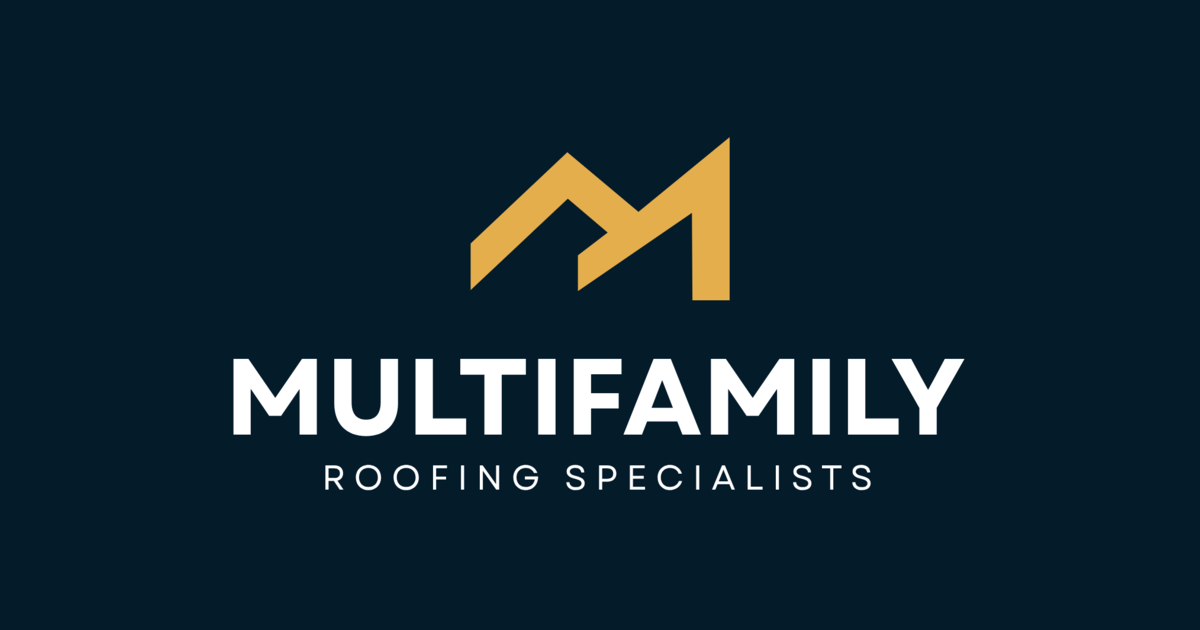
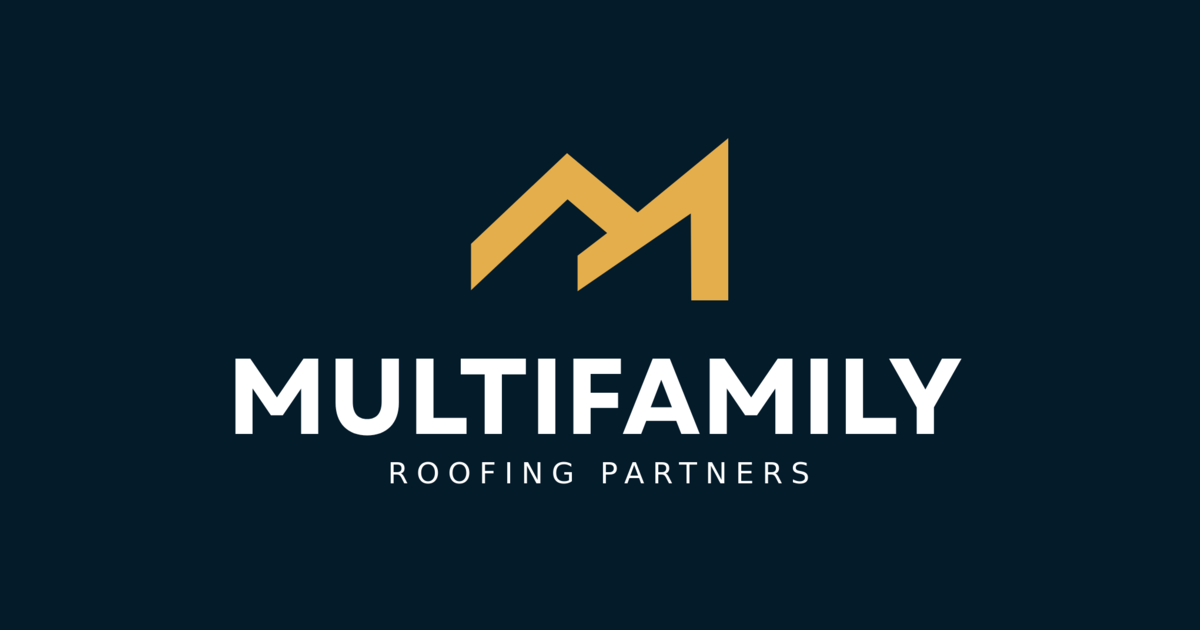
Update multifamily roofing project assets and components
Replit-Commit-Author: Agent

diff --git a/artifacts/multifamily-roofing-specialists/index.html b/artifacts/multifamily-roofing-specialists/index.html
@@ -3,25 +3,25 @@
   <head>
     <meta charset="UTF-8" />
     <meta name="viewport" content="width=device-width, initial-scale=1.0, maximum-scale=1" />
-    <title>Multifamily Roofing Specialists | Commercial Roofing Across the Southeast</title>
-    <meta name="description" content="Commercial roofing specialists for multifamily owners, property managers, HOAs, developers, and GCs across North Carolina, South Carolina, Tennessee, and Georgia." />
+    <title>Multifamily Roofing Partners | Commercial Roofing Across the Southeast</title>
+    <meta name="description" content="Commercial roofing partners for multifamily owners, property managers, HOAs, developers, and GCs across North Carolina, South Carolina, Tennessee, and Georgia." />
     <meta name="robots" content="index, follow" />
     <link rel="canonical" href="https://themultifamilyroofers.com/" />
-    <meta property="og:site_name" content="Multifamily Roofing Specialists" />
-    <meta property="og:title" content="Multifamily Roofing Specialists | Commercial Roofing Across the Southeast" />
-    <meta property="og:description" content="Commercial roofing specialists for multifamily owners, property managers, HOAs, developers, and GCs across North Carolina, South Carolina, Tennessee, and Georgia." />
+    <meta property="og:site_name" content="Multifamily Roofing Partners" />
+    <meta property="og:title" content="Multifamily Roofing Partners | Commercial Roofing Across the Southeast" />
+    <meta property="og:description" content="Commercial roofing partners for multifamily owners, property managers, HOAs, developers, and GCs across North Carolina, South Carolina, Tennessee, and Georgia." />
     <meta property="og:type" content="website" />
     <meta property="og:url" content="https://themultifamilyroofers.com/" />
     <meta property="og:image" content="https://themultifamilyroofers.com/social-preview.png" />
-    <meta property="og:image:alt" content="Gold-and-white Multifamily Roofing Specialists logo on a navy background" />
+    <meta property="og:image:alt" content="Gold-and-white Multifamily Roofing Partners logo on a navy background" />
     <meta property="og:image:type" content="image/png" />
     <meta property="og:image:width" content="1200" />
     <meta property="og:image:height" content="630" />
     <meta name="twitter:card" content="summary_large_image" />
-    <meta name="twitter:title" content="Multifamily Roofing Specialists | Commercial Roofing Across the Southeast" />
-    <meta name="twitter:description" content="Commercial roofing specialists for multifamily owners, property managers, HOAs, developers, and GCs across North Carolina, South Carolina, Tennessee, and Georgia." />
+    <meta name="twitter:title" content="Multifamily Roofing Partners | Commercial Roofing Across the Southeast" />
+    <meta name="twitter:description" content="Commercial roofing partners for multifamily owners, property managers, HOAs, developers, and GCs across North Carolina, South Carolina, Tennessee, and Georgia." />
     <meta name="twitter:image" content="https://themultifamilyroofers.com/social-preview.png" />
-    <meta name="twitter:image:alt" content="Gold-and-white Multifamily Roofing Specialists logo on a navy background" />
+    <meta name="twitter:image:alt" content="Gold-and-white Multifamily Roofing Partners logo on a navy background" />
     <link rel="icon" type="image/svg+xml" href="/favicon.svg?v=5" />
     <link rel="icon" type="image/png" sizes="32x32" href="/favicon-32.png?v=5" />
     <link rel="icon" type="image/png" sizes="192x192" href="/favicon-192.png?v=5" />

diff --git a/artifacts/multifamily-roofing-specialists/src/App.tsx b/artifacts/multifamily-roofing-specialists/src/App.tsx
@@ -4,7 +4,7 @@ import { QueryClient, QueryClientProvider } from '@tanstack/react-query';
 import { ErrorBoundary } from '@/components/error-boundary';
 import { Toaster } from '@/components/ui/toaster';
 import { TooltipProvider } from '@/components/ui/tooltip';
-import brandLogo from '@assets/Copy_of_Copy_of_roofing_specialists_(3)_1790358155126.png';
+import brandLogo from '@assets/multifamily-roofing-partners-logo.png';
 import roofDetail from '@assets/image_1788528449639.png';
 import heroImage from '@assets/ChatGPT_Image_Sep_8,_2026,_08_57_09_AM_1788872235177.png';
 import fieldImage from '@assets/c2e03dc0-e0cc-400b-bfcf-d2b8d0d1c3c2_1789407233528.png';
@@ -178,7 +178,7 @@ function Brand({ logo = brandLogo }: { logo?: string }) {
       <img
         className="brand-logo"
         src={logo}
-        alt="Multifamily Roofing Specialists"
+        alt="Multifamily Roofing Partners"
       />
     </a>
   );
@@ -256,12 +256,12 @@ function Hero() {
             <br />
             Roofing
             <br />
-            Specialists
+            Partners
           </h1>
         </div>
         <div className="hero-support">
           <p className="hero-tagline serif" data-testid="text-hero-tagline">
-            Not Generalists. Multifamily Specialists.
+            Not Generalists. Multifamily Partners.
           </p>
           <div className="hero-copy">
             <p>
@@ -819,10 +819,10 @@ function Footer() {
         </div>
         <div className="footer-bottom">
           <p className="footer-legal-note">
-            Multifamily Roofing Specialists is an Equal Opportunity Employer, regardless of race, color, religion, sex, sexual orientation, gender identity, national origin, disability, status as a protected veteran, or other characteristics protected by applicable law.
+            Multifamily Roofing Partners is an Equal Opportunity Employer, regardless of race, color, religion, sex, sexual orientation, gender identity, national origin, disability, status as a protected veteran, or other characteristics protected by applicable law.
           </p>
           <div className="footer-bottom-meta">
-            <span data-testid="text-copyright">© {year} Multifamily Roofing Specialists</span>
+            <span data-testid="text-copyright">© {year} Multifamily Roofing Partners</span>
             <span>All rights reserved</span>
           </div>
         </div>

diff --git a/artifacts/mockup-sandbox/src/components/mockups/multifamily/RoofingProjectBrief.tsx b/artifacts/mockup-sandbox/src/components/mockups/multifamily/RoofingProjectBrief.tsx
@@ -169,7 +169,7 @@ export function RoofingProjectBrief() {
         .brief-capability h3 { font: 400 25px/1 Georgia, serif; letter-spacing: -.035em; margin: 0 0 12px; }
         .brief-capability p { max-width: 290px; color: var(--ink-soft); font-size: 12px; line-height: 1.65; margin: 0; }
         .brief-process { background: var(--ink); color: var(--paper); padding: 92px 0 100px; position: relative; }
-        .brief-process::after { content: "MFRS / 2024"; color: rgba(244,240,232,.3); position: absolute; right: 28px; bottom: 29px; font: 9px ui-monospace, monospace; letter-spacing: .12em; }
+        .brief-process::after { content: "MRP / 2024"; color: rgba(244,240,232,.3); position: absolute; right: 28px; bottom: 29px; font: 9px ui-monospace, monospace; letter-spacing: .12em; }
         .brief-process-grid { display: grid; grid-template-columns: .8fr 1.2fr; gap: 12%; }
         .brief-process h2 { max-width: 430px; }
         .brief-process .brief-kicker { color: var(--ochre); }
@@ -246,9 +246,9 @@ export function RoofingProjectBrief() {
       `}</style>
 
       <header className="brief-wrap brief-nav">
-        <a className="brief-brand" href="#top" aria-label="Multifamily Roofing Specialists home">
+        <a className="brief-brand" href="#top" aria-label="Multifamily Roofing Partners home">
           <span className="brief-brand-mark" aria-hidden="true" />
-          <span>Multifamily Roofing Specialists</span>
+          <span>Multifamily Roofing Partners</span>
         </a>
         <nav className={`brief-links ${menuOpen ? "brief-mobile-links" : ""}`} aria-label="Primary navigation">
           <a href="#approach" onClick={() => setMenuOpen(false)}>Approach</a>
@@ -402,7 +402,7 @@ export function RoofingProjectBrief() {
 
       <footer className="brief-footer">
         <div className="brief-wrap brief-footer-inner">
-          <small>© 2024 Multifamily Roofing Specialists / Charlotte, NC</small>
+          <small>© 2024 Multifamily Roofing Partners / Charlotte, NC</small>
           <div className="brief-footer-links"><a href="#top">Back to top</a><a href="#intake">Start a project</a></div>
         </div>
       </footer>

diff --git a/artifacts/mockup-sandbox/src/.generated/mockup-components.ts b/artifacts/mockup-sandbox/src/.generated/mockup-components.ts
@@ -3,6 +3,6 @@ type ModuleMap = Record<string, () => Promise<Record<string, unknown>>>;
 export const modules: ModuleMap = {
   "./components/mockups/multifamily/RoofingProjectBrief.tsx": () => import("../components/mockups/multifamily/RoofingProjectBrief.tsx"),
   "./components/mockups/templates/FirstLightCyclingLookbook-H7Hfgv/ClikClakDuskMix.tsx": () => import("../components/mockups/templates/FirstLightCyclingLookbook-H7Hfgv/ClikClakDuskMix.tsx"),
-  "./components/mockups/templates/FirstLightCyclingLookbook-T7rn--/ClikClakDuskMix.tsx": () => import("../components/mockups/templates/FirstLightCyclingLookbook-T7rn--/ClikClakDuskMix.tsx"),
-  "./components/mockups/templates/FirstLightCyclingLookbook-LnpXMF/ClikClakDuskMix.tsx": () => import("../components/mockups/templates/FirstLightCyclingLookbook-LnpXMF/ClikClakDuskMix.tsx")
+  "./components/mockups/templates/FirstLightCyclingLookbook-LnpXMF/ClikClakDuskMix.tsx": () => import("../components/mockups/templates/FirstLightCyclingLookbook-LnpXMF/ClikClakDuskMix.tsx"),
+  "./components/mockups/templates/FirstLightCyclingLookbook-T7rn--/ClikClakDuskMix.tsx": () => import("../components/mockups/templates/FirstLightCyclingLookbook-T7rn--/ClikClakDuskMix.tsx")
 };

diff --git a/artifacts/multifamily-roofing-specialists/src/index.css b/artifacts/multifamily-roofing-specialists/src/index.css
@@ -1732,7 +1732,7 @@
   .btn-primary, .btn-secondary { width: 100%; }
 }
 
-/* Multifamily Roofing Specialists brand palette */
+/* Multifamily Roofing Partners brand palette */
 :root {
   --brand-blue: #0f2f42;
   --brand-blue-deep: #06273a;
